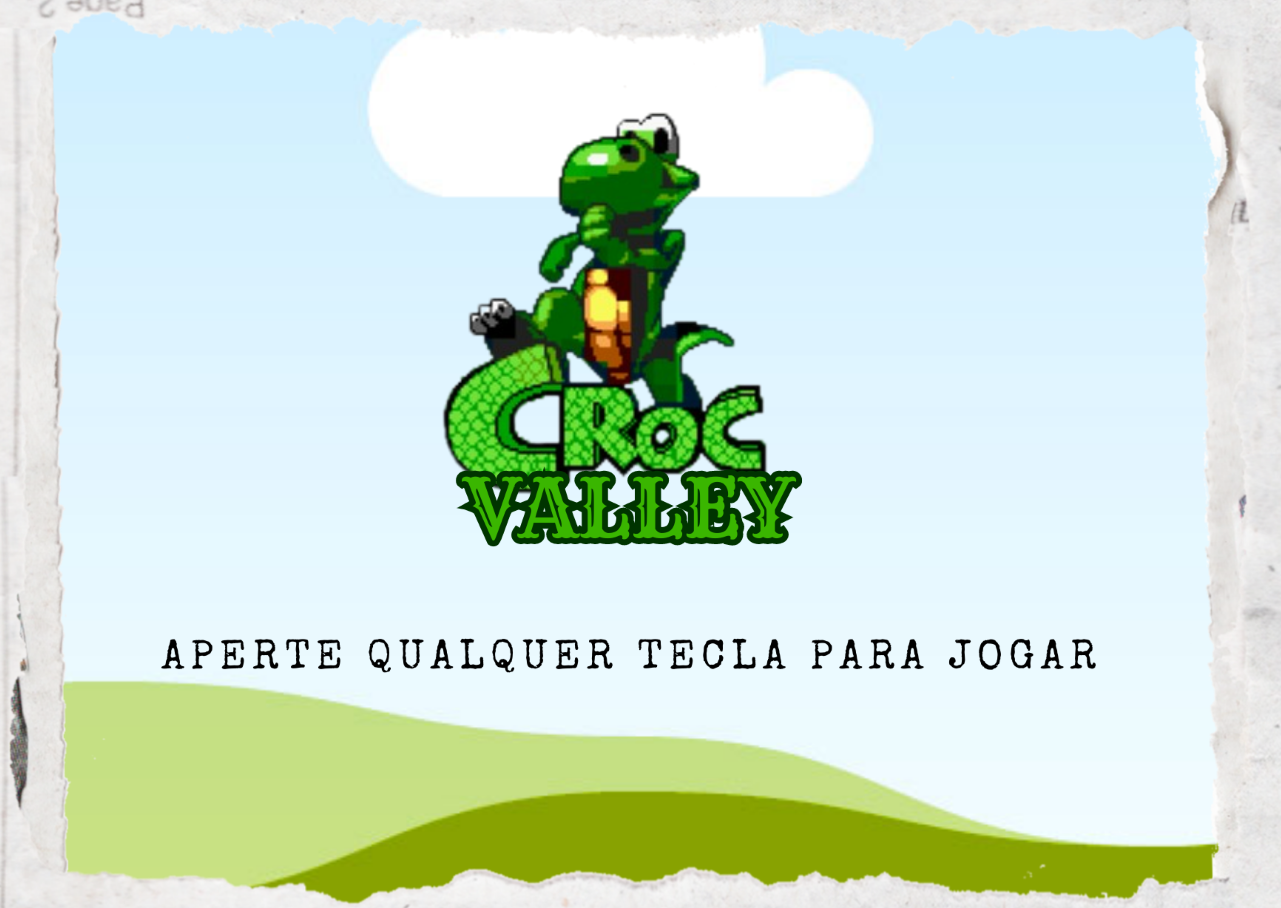
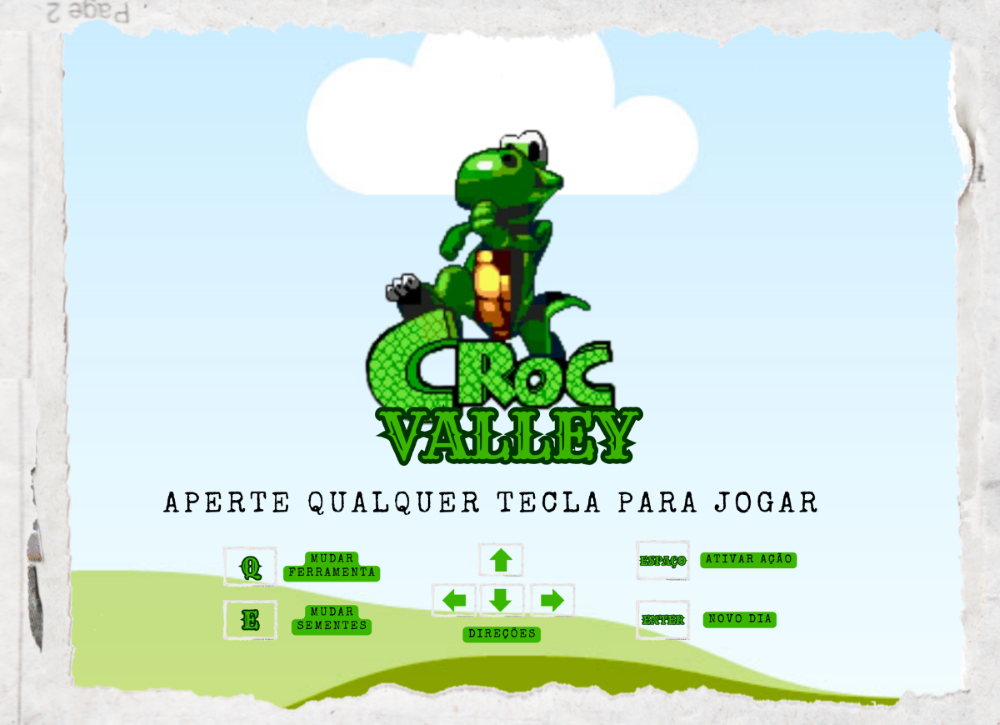
Ajustes Jogabilidade

diff --git a/code/main.py b/code/main.py
@@ -16,7 +16,7 @@ class Game:
 		#janelas
 		self.window_init = pygame.image.load('../assets/valley.png').convert_alpha()
 		self.window_end = pygame.image.load('../assets/play.png').convert_alpha()
-		self.window_manual = pygame.image.load('../assets/croc.png').convert_alpha()
+		self.window_manual = pygame.image.load('../assets/jogadas.png').convert_alpha()
 
 		
 		self.state = INIT1
@@ -53,7 +53,7 @@ class Game:
 					pygame.quit()
 					self.state = QUIT
 
-			self.screen.blit(self.window_init,(640,360))
+			self.screen.blit(self.window_init,(0,0))
 			pygame.display.update()
 		self.loop = True
 		return self.state
@@ -73,7 +73,7 @@ class Game:
 		# return self.state
 	
 	def rodar(self):
-		JOG = True
+		JOG =True
 		while JOG: 
 			for event in pygame.event.get():
 				if event.type == pygame.QUIT:
@@ -83,7 +83,7 @@ class Game:
 					print("jogo")
 					JOG = False
 			self.screen.blit(self.window_init, self.screen_rect)
-			dt = self.clock.tick() / 1000
+			# dt = self.clock.tick() / 1000
 			# self.level.run(dt)  
 			pygame.display.update()
 

diff --git a/code/transition.py b/code/transition.py
@@ -11,7 +11,7 @@ class Transition:
         #overlay image
         self.image = pygame.Surface((SCREEN_WIDTH,SCREEN_HEIGHT))
         self.color = 255
-        self.speed = -2
+        self.speed = -10
     
     def play(self):
         
